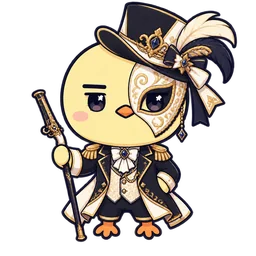
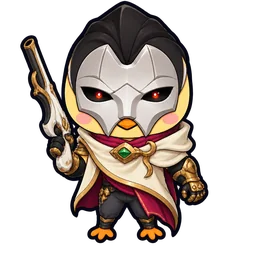
서바이벌: 일단즐겨를 진 코스프레 그림으로 교체
- 전면 가면·크림 망토·마젠타 스카프·금 건틀릿·장총, 능력(경험치 +20%)은 그대로

Claude-Session: https://claude.ai/code/session_018GzTivP446Z4KhefLmvcv5

diff --git a/survivors.html b/survivors.html
@@ -455,7 +455,7 @@ const CHARS=[
   {k:'hrb',img:1,e:'🏄',nm:'조선제일하리보',tag:'정글 · 137판',q:'집집집집집집',ds:'「자크 코스프레」 — 끈적끈적 슬라임 옷으로 이동속도 +20%. 🍟 튀김기 오라 시작.',w:'fryer',spd:.2,un:{t:'5분 생존',ok:p=>p.best>=300,pr:p=>`최고 ${fmt(p.best)}`}},
   {k:'ssu',img:1,e:'✈',nm:'승수',tag:'기내 서비스',q:'승객 여러분, 안전벨트를 매 주세요.',ds:'「기내 서비스」 — 초당 HP 0.8 회복, 받는 피해 -1. 🥫 제로콜라 캔 시작.',w:'can',regen:.8,arm:1,un:{t:'🌾 사료 투척 Lv5',ok:p=>p.w5.feed,pr:p=>p.w5.feed?'완료':'미완'}},
   {k:'amd',img:1,e:'🪧',nm:'앙앵모르딱',tag:'서폿 · 115판',q:'팀원과 싸우지 말자',ds:'「팀원과싸우지말자」 — 초당 HP 1.5 회복. 🍣 초밥 시작.',w:'sushi',regen:1.5,un:{t:'🍟 튀김기 오라 Lv5',ok:p=>p.w5.fryer,pr:p=>p.w5.fryer?'완료':'미완'}},
-  {k:'ildj',img:1,e:'🧪',nm:'일단즐겨',tag:'미드 · 323판',q:'아님말고',ds:'「진 코스프레」 — 가면 쓰고 우아하게, 경험치 +20%. 아님말고. 🥚 달걀 폭탄 시작.',w:'egg',xp:.2,un:{t:'레벨 20 달성',ok:p=>p.maxLv>=20,pr:p=>`최고 Lv ${p.maxLv}`}},
+  {k:'ildj',img:1,e:'🎭',nm:'일단즐겨',tag:'미드 · 323판',q:'아님말고',ds:'「진 코스프레」 — 은빛 가면에 크림색 망토, 경험치 +20%. 아님말고. 🥚 달걀 폭탄 시작.',w:'egg',xp:.2,un:{t:'레벨 20 달성',ok:p=>p.maxLv>=20,pr:p=>`최고 Lv ${p.maxLv}`}},
   {k:'kyo',img:1,e:'🍔',nm:'김야옹',tag:'서폿 · 114판',q:'편의점 햄버거로 꺼지쇼',ds:'「버거킹 쿠폰」 — 레벨업마다 HP 25 회복, 획득 범위 +50%. 🌾 사료 시작.',w:'feed',lvheal:25,mag:.5,un:{t:'처치 누적 1000',ok:p=>p.kills>=1000,pr:p=>`${Math.min(p.kills,1000)}/1000`}},
   {k:'ddmj',img:1,e:'🧱',nm:'단단묵직',tag:'정글·탑 · 465판',q:'묵직하게 막아선다',ds:'「디펜더」 — 부딪힌 적을 밀쳐 낸다, 받는 피해 -3, 이동속도 -10%. 🍣 초밥 시작.',w:'sushi',arm:3,spd:-.1,push:1,un:{t:'최종 보스 처치',ok:p=>p.bossKill>=1,pr:p=>p.bossKill?'완료':'미완'}},
   // ── 🐲 🦐 [2026-09-29 사장님 지시] 보스 캐릭터 "일러스트가 구현되어 있는 신림·또뀨·태웅·용조련사 플레이어블로도 — 해금 조건 알아서"

diff --git a/tooling/improve/ideas/P-6-brj-survivors.md b/tooling/improve/ideas/P-6-brj-survivors.md
@@ -32,14 +32,14 @@
 | 🏄 조선제일하리보 | 이동속도 +20% | 다대포 서핑보드(g_surf) | 자크 코스프레(연두 슬라임 옷) 병아리 |
 | ✈ 승수 | 초당 회복 0.8·받는 피해 -1 | 기내 서비스(공개 밈 기반 · 키 `ssu`) | 승무원 제복 + 쟁반 든 병아리 |
 | 🪧 앙앵모르딱 | 초당 회복 | 「팀원과싸우지말자」 표어(g_slogan) | 표어 피켓을 든 브장신 |
-| 🧪 일단즐겨 | 경험치 +20% | 재물획득의 비약(g_potion) | 진 코스프레(도자기 반가면·지팡이 총) 병아리 |
+| 🎭 일단즐겨 | 경험치 +20% | 재물획득의 비약 → 진 코스프레(참고 그림 기반) | 은백색 전면 가면·크림 망토·마젠타 스카프·금 건틀릿·백금 장총 병아리 |
 | 🍔 김야옹 | 레벨업 회복·획득 범위 | 버거킹 쿠폰(g_burger)·고양이 귀 | 고양이 귀 + 햄버거 든 브장신 |
 | 🧱 단단묵직 | 밀쳐내기·피해 감소 | "디펜더"(BRJ_CAMEOS) | 철갑 투구 + 벽돌 방패 든 브장신 |
 
 ### 그림 제작 완료 (2026-09-30) — 8종 `img/survivors/char_<key>.webp` (256px WebP, 10~22 KB), survivors.html 에 연결, `REVEAL=false` 로 숨김 — 공개는 사장님 결정
 - 레시피: 환경에 키 없음(세션 프록시가 인증) → `POST https://api.openai.com/v1/images/edits` 멀티파트(model=gpt-image-2, image=front.png, quality=low, size=1024x1024, background=transparent, output_format=png, prompt). 프록시가 ~30초에 끊어 medium 은 실패, low 는 ~20초. 분당 입력 이미지 5장 제한이라 동시 4개 이하·429 는 재시도. 결과는 회색/어두운 배경에 합성해 눈으로 확인(contact sheet).
 - 프롬프트 틀: `Keep this yellow chick character exactly as it is — same head shape, face, cheeks, beak, feet, outline and art style — and it is <소품>. Front view, full body, centered, transparent background, same art style as the original, no text, no letters, no numbers.`
-- 소품 문구: jjg = pirate bounty-hunter captain (fiery red-orange wavy wig, tricorn hat with feather, red-and-gold coat, a pistol in each wing; 초안은 크라켄 검 — 교체). 머리 위 배지 2개(⚡ 치명적 속도 룬 · 🐙 크라켄 학살자 6672)는 그림에 굽지 않고 실행 때 그린다(Data Dragon 이 이 환경에서 막혀 있음 — `bdg` 필드, 카드·판·결과 얼굴, 못 불러오면 이모지 배지) · mms = sad teary face + small dark rain cloud above its head · hrb = slime-monster costume (translucent lime-green suit and hood, goo drips, face visible) · ssu = flight attendant (navy jacket, cap, red neckerchief, serving tray, charming smile) · amd = small picket sign, blank with a heart icon · ildj = porcelain half mask, dark-and-white gold-trimmed coat, tall hat, slim pistol cane · kyo = cat ears + hamburger · ddmj = small iron helmet + brick-pattern shield.
+- 소품 문구: jjg = pirate bounty-hunter captain (fiery red-orange wavy wig, tricorn hat with feather, red-and-gold coat, a pistol in each wing; 초안은 크라켄 검 — 교체). 머리 위 배지 2개(⚡ 치명적 속도 룬 · 🐙 크라켄 학살자 6672)는 그림에 굽지 않고 실행 때 그린다(Data Dragon 이 이 환경에서 막혀 있음 — `bdg` 필드, 카드·판·결과 얼굴, 못 불러오면 이모지 배지) · mms = sad teary face + small dark rain cloud above its head · hrb = slime-monster costume (translucent lime-green suit and hood, goo drips, face visible) · ssu = flight attendant (navy jacket, cap, red neckerchief, serving tray, charming smile) · amd = small picket sign, blank with a heart icon · ildj = 진 코스프레 — 편집 호출에 이미지 2장(image[]: 1=병아리 원본, 2=의상 참고 그림의 캐릭터 부분만 잘라 글자 제외). 프롬프트: 'Image 1 is the yellow chick mascot to keep … Image 2 is a reference for the COSTUME only … smooth silver-white full-face mask with narrow dark eye slits and faint red glint, sleek black hair cap with pointed top, big cream-white hooded cloak with gold trim, magenta-crimson scarf collar with green gem brooch, gold gauntlets, dark trousers, ornate white-and-gold long pistol'. 채택: 변형 a(부리가 마스크 아래로 빼꼼 + 분홍 볼 보임 — 병아리로 읽힘), 변형 b(마스크만)는 진처럼은 보이나 병아리 같지 않아 탈락(2회 호출로 통과) · kyo = cat ears + hamburger · ddmj = small iron helmet + brick-pattern shield.
 - 전원 첫 시도에 통과(8장 + 폐기한 초안 3장: 방패 · 서핑보드 · 물약병 · 바벨은 주인 요청으로 교체).
 - 연결: 카드(`artEl`) · 판 중 스프라이트(`charImg`) · 결과 얼굴 — 보스 그림과 같은 경로(`hasArt`/`artUrl`). `shown()` 이 false 인 캐릭터는 그림을 요청하지 않는다.
 
